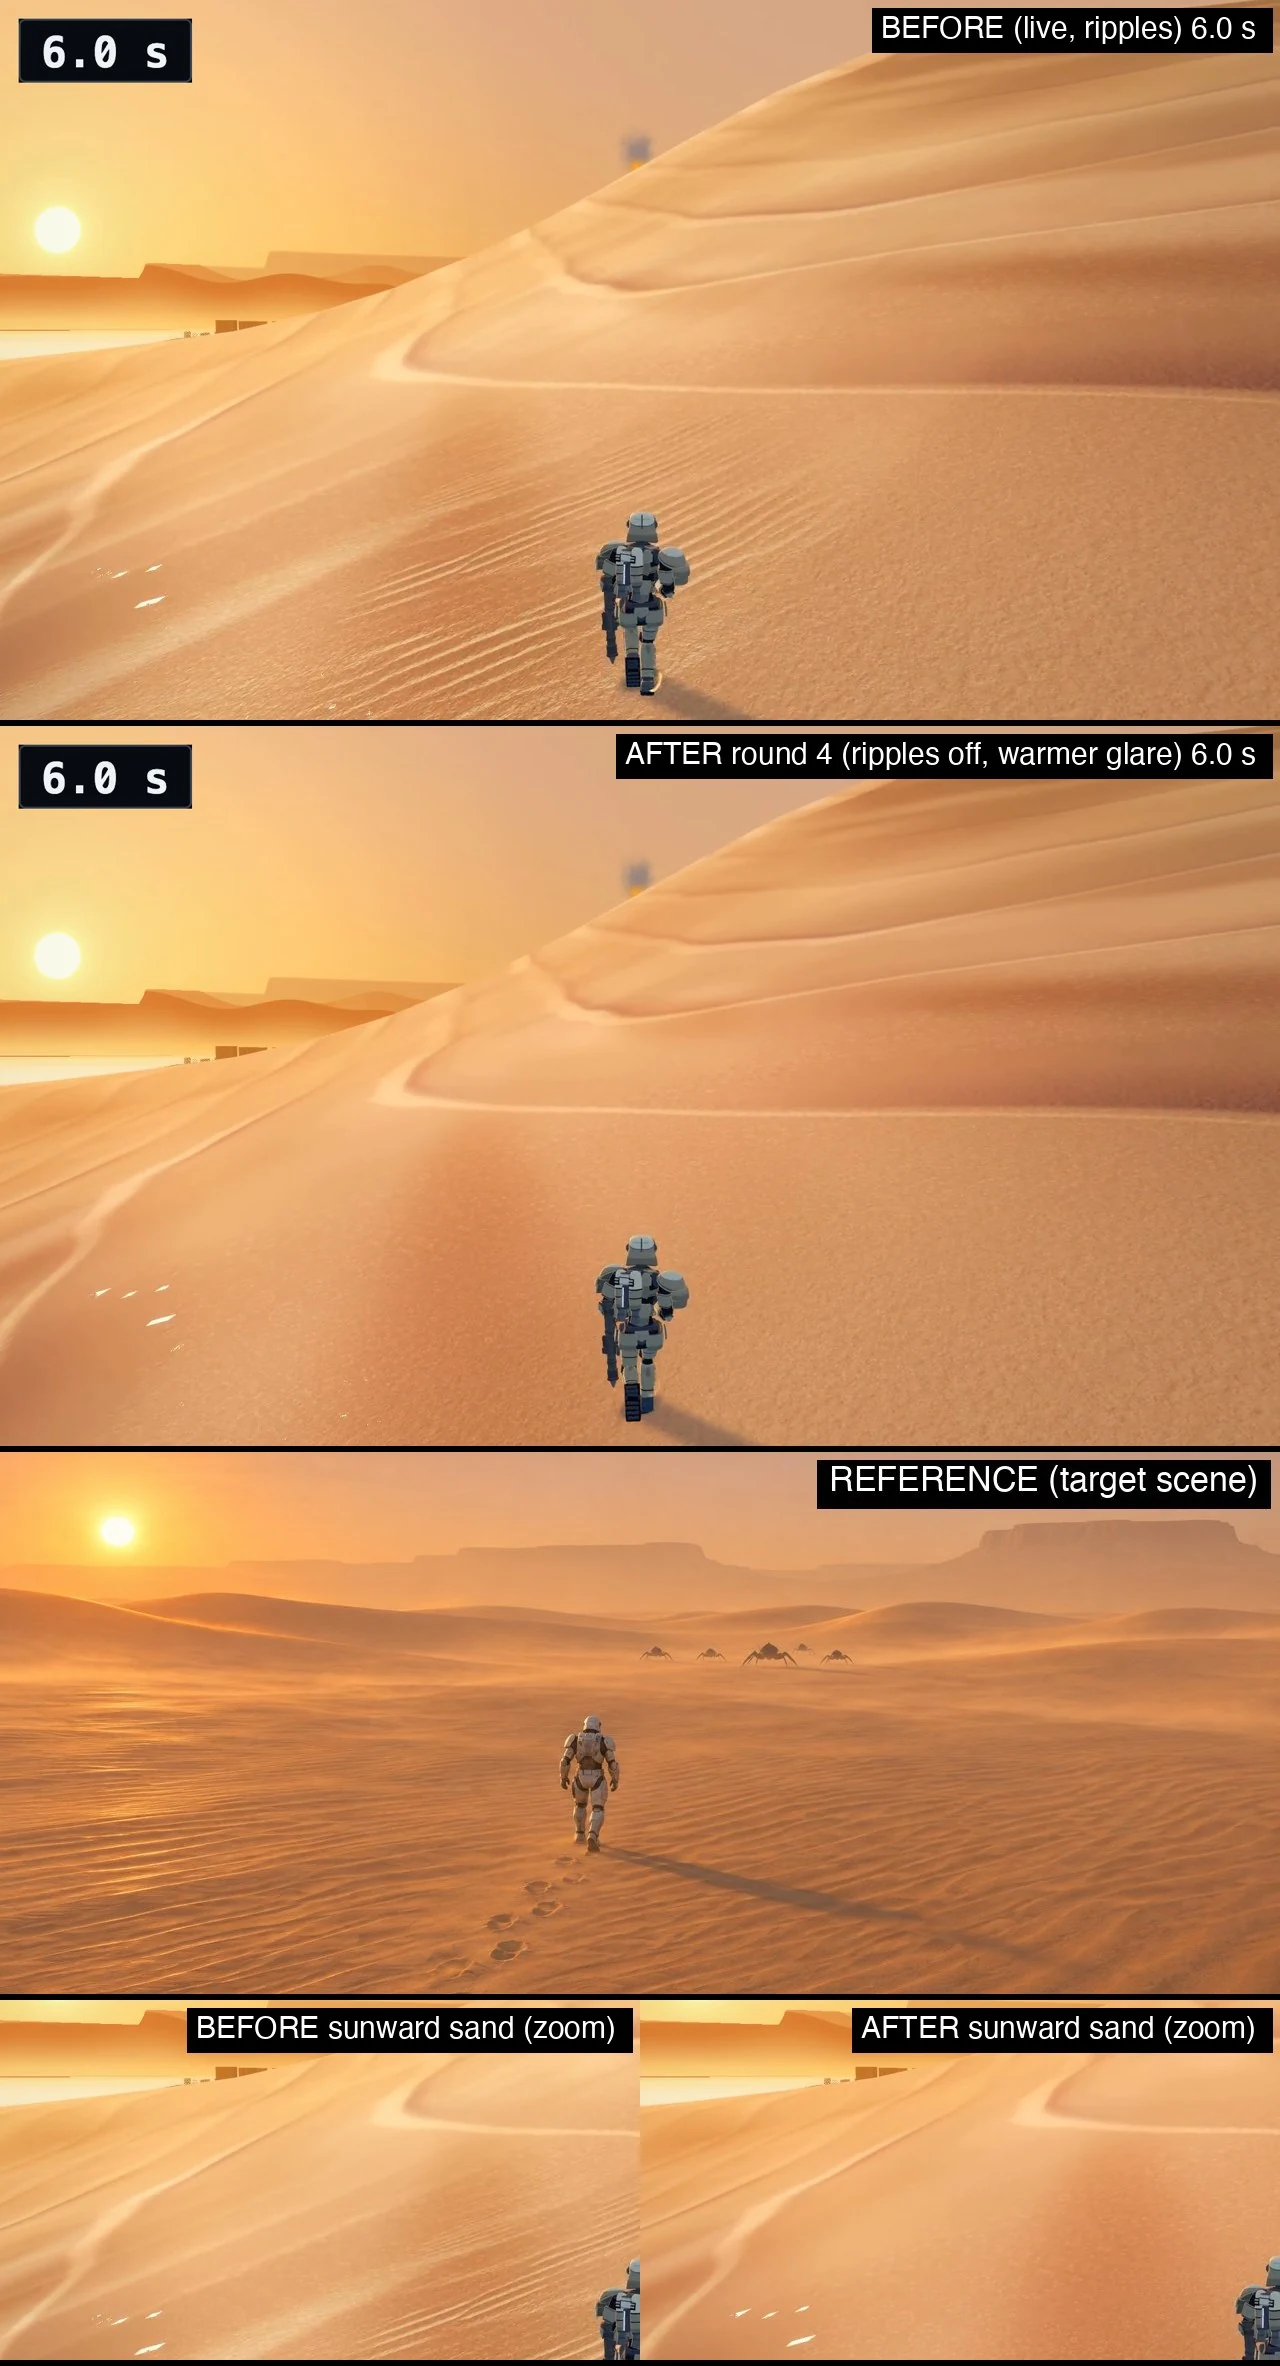
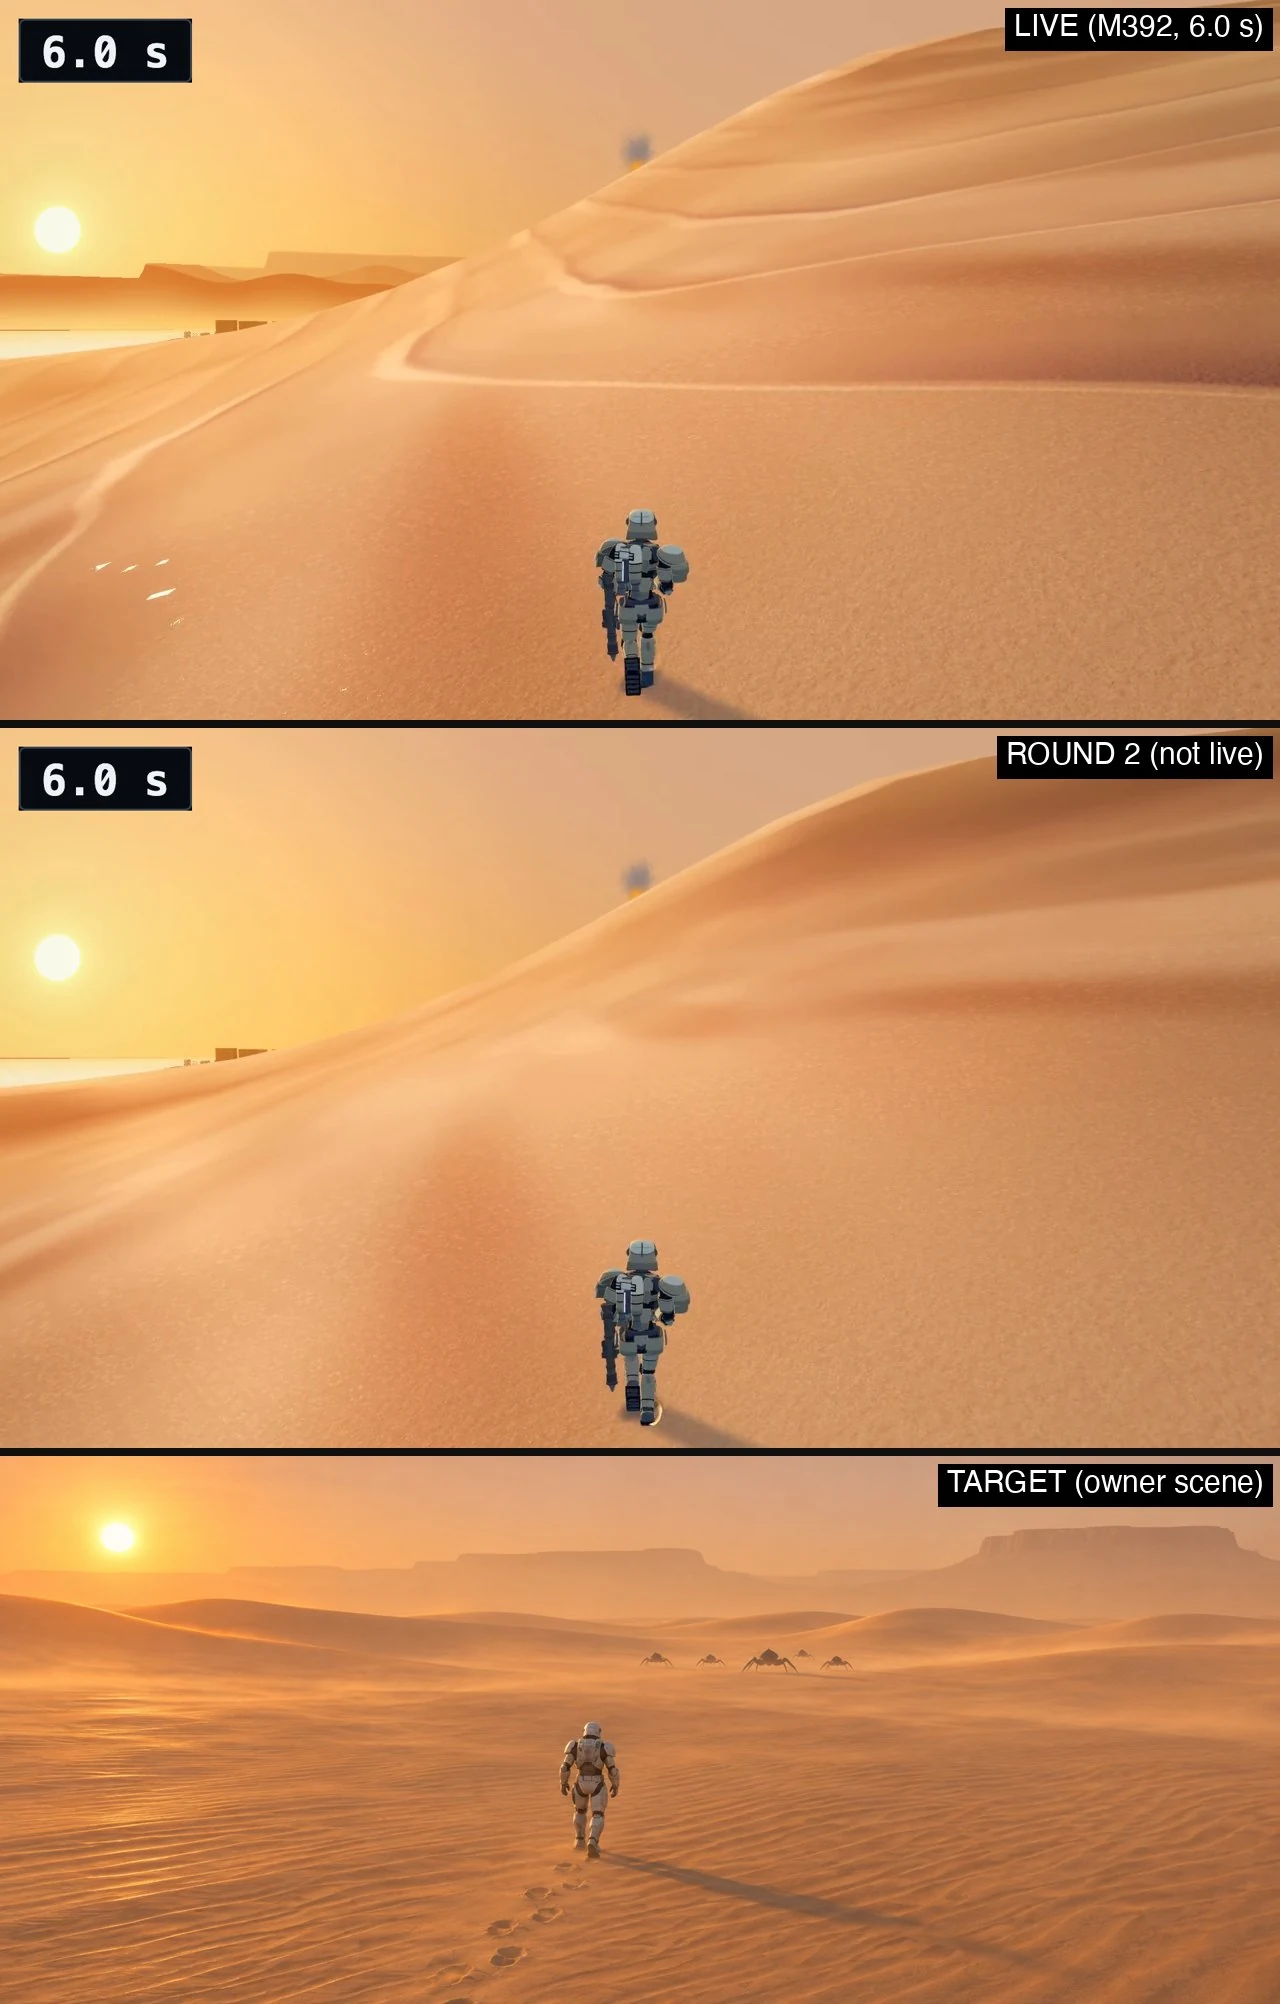
review page v221: Steel Tide: to review

diff --git a/d/steel-tide-clips-bb00109a/index.html b/d/steel-tide-clips-bb00109a/index.html
@@ -4,8 +4,8 @@
 <style>body{margin:0;background:#0d1117;color:#e6edf3;font:16px/1.5 -apple-system,system-ui,sans-serif}main{max-width:900px;margin:0 auto;padding:16px}h1{font-size:20px;margin:8px 0 4px}h2{font-size:17px;margin:34px 0 6px}p{margin:4px 0 10px;color:#9da7b3;font-size:14px}video,img{width:100%;height:auto;background:#000;border-radius:6px;display:block;margin-top:6px}a.b{display:inline-block;margin:8px 8px 0 0;padding:10px 14px;border:1px solid #3d444d;border-radius:6px;color:#e6edf3;text-decoration:none;font-size:14px}.t{font-size:12px;font-weight:400;color:#0d1117;background:#9da7b3;border-radius:10px;padding:2px 8px;margin-left:6px;vertical-align:middle}p.d{color:#7cb7ff;font-size:13px;margin:0 0 6px}nav small{color:#9da7b3;margin-left:6px}p b{color:#e6edf3}nav a{display:block;padding:7px 0;color:#7cb7ff;text-decoration:none;font-size:14px;border-bottom:1px solid #21262d}a.z{display:block;cursor:zoom-in}p.h{font-size:12px;margin:2px 0 8px}#lb{position:fixed;inset:0;background:#000;z-index:9;overflow:auto;display:none;cursor:zoom-in}#lb.on{display:block}#lb img{width:100%;height:100%;object-fit:contain;margin:0;border-radius:0;background:#000}#lb.big{cursor:zoom-out}#lb.big img{width:auto;height:auto;max-width:none;object-fit:none}#lbx{position:fixed;top:10px;right:14px;z-index:10;display:none;font:600 15px system-ui;color:#fff;background:#21262d;border:1px solid #3d444d;border-radius:6px;padding:8px 12px;cursor:pointer}#lb.on+#lbx{display:block}</style></head>
 <body><main>
 <h1>Steel Tide: to review</h1>
-<p>Version 220, 11-21 4:17 PM. Only current items: stale clips and decided picks are removed. Newest first. Newest first. Total 13.5 MB.</p>
-<nav><a href="#weapon-icons-round-3">Weapon icons: style A in the game <small>11-21 10:10 PM</small></a><a href="#pilot-gun-clipping">Pilot: carried gun and arms no longer cut into the body (before / after) <small>11-21 10:05 PM</small></a><a href="#desert-wind">Desert: visible wind (blowing sand, gusts, haze) <small>11-21 9:10 PM</small></a><a href="#no-black-preload">Mission start: no black screen before the flight <small>11-21 5:05 PM</small></a><a href="#ocean-navy">Ocean navy: fewer, heavier ships; lobbed shells you can see; hull explosions; torpedo wakes <small>11-21 4:40 PM</small></a><a href="#sand-impacts">Desert: shots, landings and footsteps throw up sand <small>11-21 4:11 PM</small></a><a href="#sand-sun-glow">Desert sand: the sun&#x27;s reflection, like the ocean <small>11-21 3:26 PM</small></a><a href="#roll-chevrons-removed">Old roll and floor dashes removed <small>11-21 2:53 PM</small></a><a href="#unit-ground-shadows">Unit ground shadows back on <small>11-21 1:02 PM</small></a><a href="#pilot-walk-sway">Pilot walk: half the side-to-side sway (before / after) <small>11-21 12:44 PM</small></a><a href="#boss-shading-which-part">Your 8:00 PM report: which part of the boss looked wrong? <small>11-20 10:51 PM</small></a><a href="#new-mech-3d-r2">New mech: first 3D model from your sheet <small>11-19 11:21 PM</small></a><a href="#tactician-r2-s302-clean">Tactician pilot: your pick, smudges cleaned (ready to wire) <small>11-19 10:24 PM</small></a><a href="#vanguard-r2-s302">Vanguard pilot: your pick, six fingers fixed (ready to wire) <small>11-19 10:24 PM</small></a><a href="#cradle-drop-launch-r4">NEEDS YOUR PICK: the drop cannon&#x27;s size on the Cradle (three sizes), with its back hidden and navy colour <small>11-18 7:43 PM</small></a><a href="#horde-pilot-zoom">NEEDS YOUR CALL: island Horde, camera zooms in when you are on foot <small>11-17 1:30 PM</small></a></nav>
+<p>Version 221, 11-21 4:26 PM. Only current items: stale clips and decided picks are removed. Newest first. Newest first. Total 13.4 MB.</p>
+<nav><a href="#weapon-icons-round-3">Weapon icons: style A in the game <small>11-21 10:10 PM</small></a><a href="#pilot-gun-clipping">Pilot: carried gun and arms no longer cut into the body (before / after) <small>11-21 10:05 PM</small></a><a href="#desert-wind">Desert: visible wind (blowing sand, gusts, haze) <small>11-21 9:10 PM</small></a><a href="#no-black-preload">Mission start: no black screen before the flight <small>11-21 5:05 PM</small></a><a href="#ocean-navy">Ocean navy: fewer, heavier ships; lobbed shells you can see; hull explosions; torpedo wakes <small>11-21 4:26 PM</small></a><a href="#sand-impacts">Desert: shots, landings and footsteps throw up sand <small>11-21 4:26 PM</small></a><a href="#sand-sun-glow">Desert sand rebuild, started from an open-source dune scene <small>11-21 4:26 PM</small></a><a href="#roll-chevrons-removed">Old roll and floor dashes removed <small>11-21 2:53 PM</small></a><a href="#unit-ground-shadows">Unit ground shadows back on <small>11-21 1:02 PM</small></a><a href="#pilot-walk-sway">Pilot walk: half the side-to-side sway (before / after) <small>11-21 12:44 PM</small></a><a href="#boss-shading-which-part">Your 8:00 PM report: which part of the boss looked wrong? <small>11-20 10:51 PM</small></a><a href="#new-mech-3d-r2">New mech: first 3D model from your sheet <small>11-19 11:21 PM</small></a><a href="#tactician-r2-s302-clean">Tactician pilot: your pick, smudges cleaned (ready to wire) <small>11-19 10:24 PM</small></a><a href="#vanguard-r2-s302">Vanguard pilot: your pick, six fingers fixed (ready to wire) <small>11-19 10:24 PM</small></a><a href="#cradle-drop-launch-r4">NEEDS YOUR PICK: the drop cannon&#x27;s size on the Cradle (three sizes), with its back hidden and navy colour <small>11-18 7:43 PM</small></a><a href="#horde-pilot-zoom">NEEDS YOUR CALL: island Horde, camera zooms in when you are on foot <small>11-17 1:30 PM</small></a></nav>
 <section id="weapon-icons-round-3"><h2>Weapon icons: style A in the game <span class="t">live M394</span></h2>
 <p class="d">Updated 11-21 10:10 PM ET &middot; captured from real HUD strip and Loadout screens at 1080p, before and after</p>
 <p><b>What changed:</b> Style A (Stencil) icons replace the old ones for all 12 weapons plus the Hand Cannons (new twin-barrel fist icon): HUD weapon strip, Loadout bar, mech weapon picker. Only the glyphs changed.</p>
@@ -33,26 +33,27 @@
 <video controls playsinline muted preload="none" poster="no-black-preload-1.webp" data-fb="no-black-preload"><source src="no-black-preload.mp4" type="video/mp4"></video>
 <div class="fb" data-id="no-black-preload" data-title="Mission start: no black screen before the flight"><p class="h">Pause the video at any moment to write a note for that second.</p><div class="fbbox" hidden><b class="fbt"></b><textarea rows="3" placeholder="Your feedback at this moment"></textarea><button class="fbsave">Save and keep playing</button><button class="fbcancel">Cancel</button></div><ol class="fblist"></ol><button class="fbexp">Export feedback</button><div class="fbout" hidden><textarea rows="8" readonly></textarea><button class="fbcopy">Copy</button><span class="fbok"></span></div></div>
 <a class="b" href="no-black-preload.mp4">Open the video on its own (2.7 MB)</a></section>
-<section id="ocean-navy"><h2>Ocean navy: fewer, heavier ships; lobbed shells you can see; hull explosions; torpedo wakes <span class="t">built, not live</span></h2>
-<p class="d">Updated 11-21 4:40 PM ET &middot; captured from lane build OCEAN-SHIPS-1121 (harness ocean-ships-stills-1121, mech at the play camera low over the sea in stage 2, facing the war; BEFORE = the new look switched off)</p>
+<section id="ocean-navy"><h2>Ocean navy: fewer, heavier ships; lobbed shells you can see; hull explosions; torpedo wakes <span class="t">in review</span></h2>
+<p class="d">Updated 11-21 4:26 PM ET &middot; captured from lane build OCEAN-SHIPS-1121 (harness ocean-ships-stills-1121, mech at the play camera low over the sea in stage 2, facing the war; BEFORE = the new look switched off)</p>
 <p><b>What changed:</b> 30% fewer ships at sea (108 to 72). Ships turn and speed up slowly, and their guns swing onto where the target will be before they fire. Shells are heavier and fly a high arc with a trail, hits blow a hull explosion, and the small ships&#x27; torpedoes now show a launch splash, glow and foam wake. On by default behind a storage switch.</p>
 <p><b>Where to look:</b> Top three strips BEFORE, bottom three AFTER, same spot. BEFORE the shells are almost invisible. AFTER the white arcing streaks with trails and the bright bursts on hulls are the change. Torpedo wakes are too far away to read at this distance; the probe counted 4 torpedo launches with splash and glow in the AFTER run and 0 in the BEFORE run.</p>
 <a class="z" href="ocean-navy-1-full.webp"><img loading="lazy" src="ocean-navy-1.webp" alt="Ocean navy: fewer, heavier ships; lobbed shells you can see; hull explosions; torpedo wakes"></a><p class="h">Click the image for full screen, click again for full size.</p>
 <a class="z" href="ocean-navy-2-full.webp"><img loading="lazy" src="ocean-navy-2.webp" alt="Ocean navy: fewer, heavier ships; lobbed shells you can see; hull explosions; torpedo wakes"></a><p class="h">Click the image for full screen, click again for full size.</p>
 <a class="z" href="ocean-navy-3-full.webp"><img loading="lazy" src="ocean-navy-3.webp" alt="Ocean navy: fewer, heavier ships; lobbed shells you can see; hull explosions; torpedo wakes"></a><p class="h">Click the image for full screen, click again for full size.</p></section>
-<section id="sand-impacts"><h2>Desert: shots, landings and footsteps throw up sand <span class="t">built, not live</span></h2>
-<p class="d">Updated 11-21 4:11 PM ET &middot; captured from lane build 34cb2e4657 (viewer export, Mech on sand row, mech play camera; the mech fires its autocannon into the sand, lifts off, lands and slides)</p>
-<p><b>What changed:</b> On the desert, hits, landings and steps now kick up warm sand that billows, drifts and settles, the way the sea throws up water. On by default behind a storage switch.</p>
+<section id="sand-impacts"><h2>Desert: shots, landings and footsteps throw up sand <span class="t">failed review, fix in progress</span></h2>
+<p class="d">Updated 11-21 4:26 PM ET &middot; captured from lane build 34cb2e4657 (viewer export, Mech on sand row, mech play camera; the mech fires its autocannon into the sand, lifts off, lands and slides)</p>
+<p><b>What changed:</b> Review found dark slab-like shapes at 3.9 s and 5.6 s that do not read as sand; the lane is proving or fixing them.</p>
 <p><b>Where to look:</b> Sheet: eight frames across the clip. Small tan puffs at the feet and from the shots, a big sand burst at the landing (6 to 7 s). The dark column at lift-off is the jet&#x27;s smoke and is the same with sand impacts off.</p>
 <a class="z" href="sand-impacts-1-full.webp"><img loading="lazy" src="sand-impacts-1.webp" alt="Desert: shots, landings and footsteps throw up sand"></a><p class="h">Click the image for full screen, click again for full size.</p>
 <video controls playsinline muted preload="none" poster="sand-impacts-1.webp" data-fb="sand-impacts"><source src="sand-impacts.mp4" type="video/mp4"></video>
 <div class="fb" data-id="sand-impacts" data-title="Desert: shots, landings and footsteps throw up sand"><p class="h">Pause the video at any moment to write a note for that second.</p><div class="fbbox" hidden><b class="fbt"></b><textarea rows="3" placeholder="Your feedback at this moment"></textarea><button class="fbsave">Save and keep playing</button><button class="fbcancel">Cancel</button></div><ol class="fblist"></ol><button class="fbexp">Export feedback</button><div class="fbout" hidden><textarea rows="8" readonly></textarea><button class="fbcopy">Copy</button><span class="fbok"></span></div></div>
 <a class="b" href="sand-impacts.mp4">Open the video on its own (0.7 MB)</a></section>
-<section id="sand-sun-glow"><h2>Desert sand: the sun&#x27;s reflection, like the ocean <span class="t">live M392 (ripples off by default, warmer glare)</span></h2>
-<p class="d">Updated 11-21 3:26 PM ET &middot; captured from lane build (viewer export, Walking in sand row, play camera behind the pilot facing the low sun; BEFORE = live today, AFTER = round 4, same 6.0 s mark)</p>
-<p><b>What changed:</b> Ripples are off and the sun glare is a warmer gold (live now).</p>
-<p><b>Where to look:</b> Second picture: smooth sand; the gold glare toward the sun on the left.</p>
-<a class="z" href="sand-sun-glow-1-full.webp"><img loading="lazy" src="sand-sun-glow-1.webp" alt="Desert sand: the sun&#x27;s reflection, like the ocean"></a><p class="h">Click the image for full screen, click again for full size.</p></section>
+<section id="sand-sun-glow"><h2>Desert sand rebuild, started from an open-source dune scene <span class="t">built, not live (round 2 of the rebuild, not judged yet)</span></h2>
+<p class="d">Updated 11-21 4:26 PM ET &middot; captured from lane build 226271e5cc</p>
+<p><b>What changed:</b> Painted lines, white specks and the boxy horizon cut-outs are gone, and hills now darken in their hollows from real sky blocking (ported from an open-source dune scene). Still far from the target: no ripples, no wind, one plain hill.</p>
+<p><b>Where to look:</b> Top: live today. Middle: round 2. Bottom: your target. Look at the hill face and the skyline on the left.</p>
+<p>Next: blowing sand off the dune crests (real 3D, nothing painted), fine ripples from shape and light, and deeper shadow.</p>
+<a class="z" href="sand-sun-glow-1-full.webp"><img loading="lazy" src="sand-sun-glow-1.webp" alt="Desert sand rebuild, started from an open-source dune scene"></a><p class="h">Click the image for full screen, click again for full size.</p></section>
 <section id="roll-chevrons-removed"><h2>Old roll and floor dashes removed <span class="t">live M384</span></h2>
 <p class="d">Updated 11-21 2:53 PM ET &middot; captured from lane build 85e740eb79</p>
 <p><b>What changed:</b> The Settings switch for the old ground roll is gone (the jet dash is the only ground dodge), and the two rows of teal dashes on the hangar floor are removed.</p>
